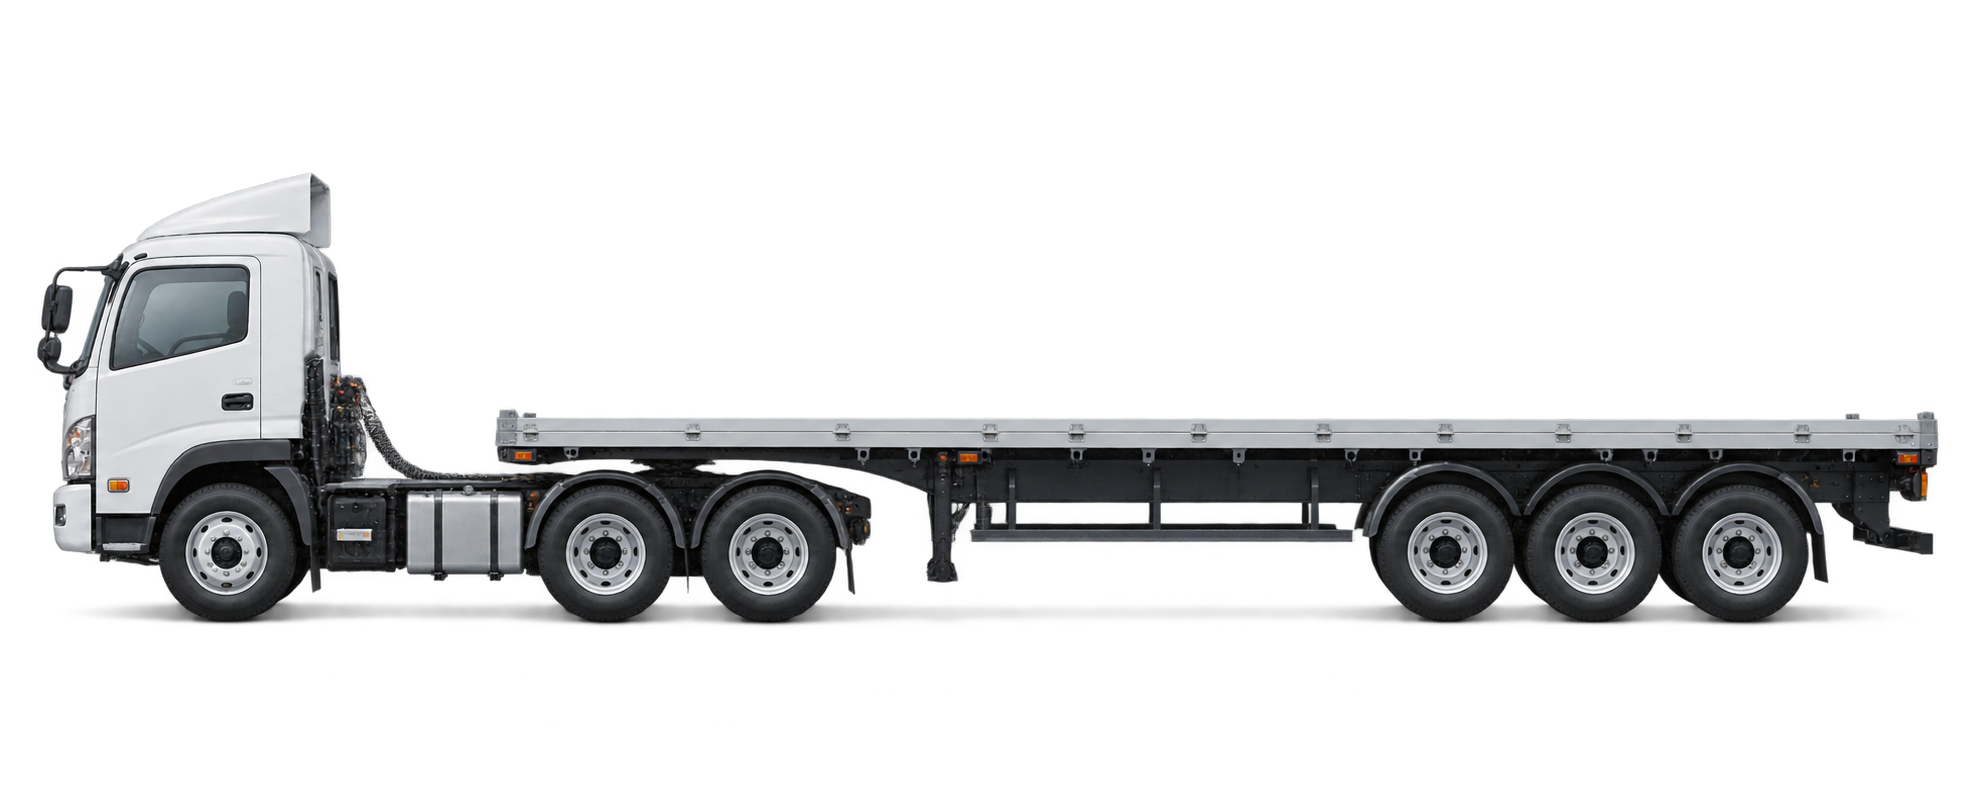
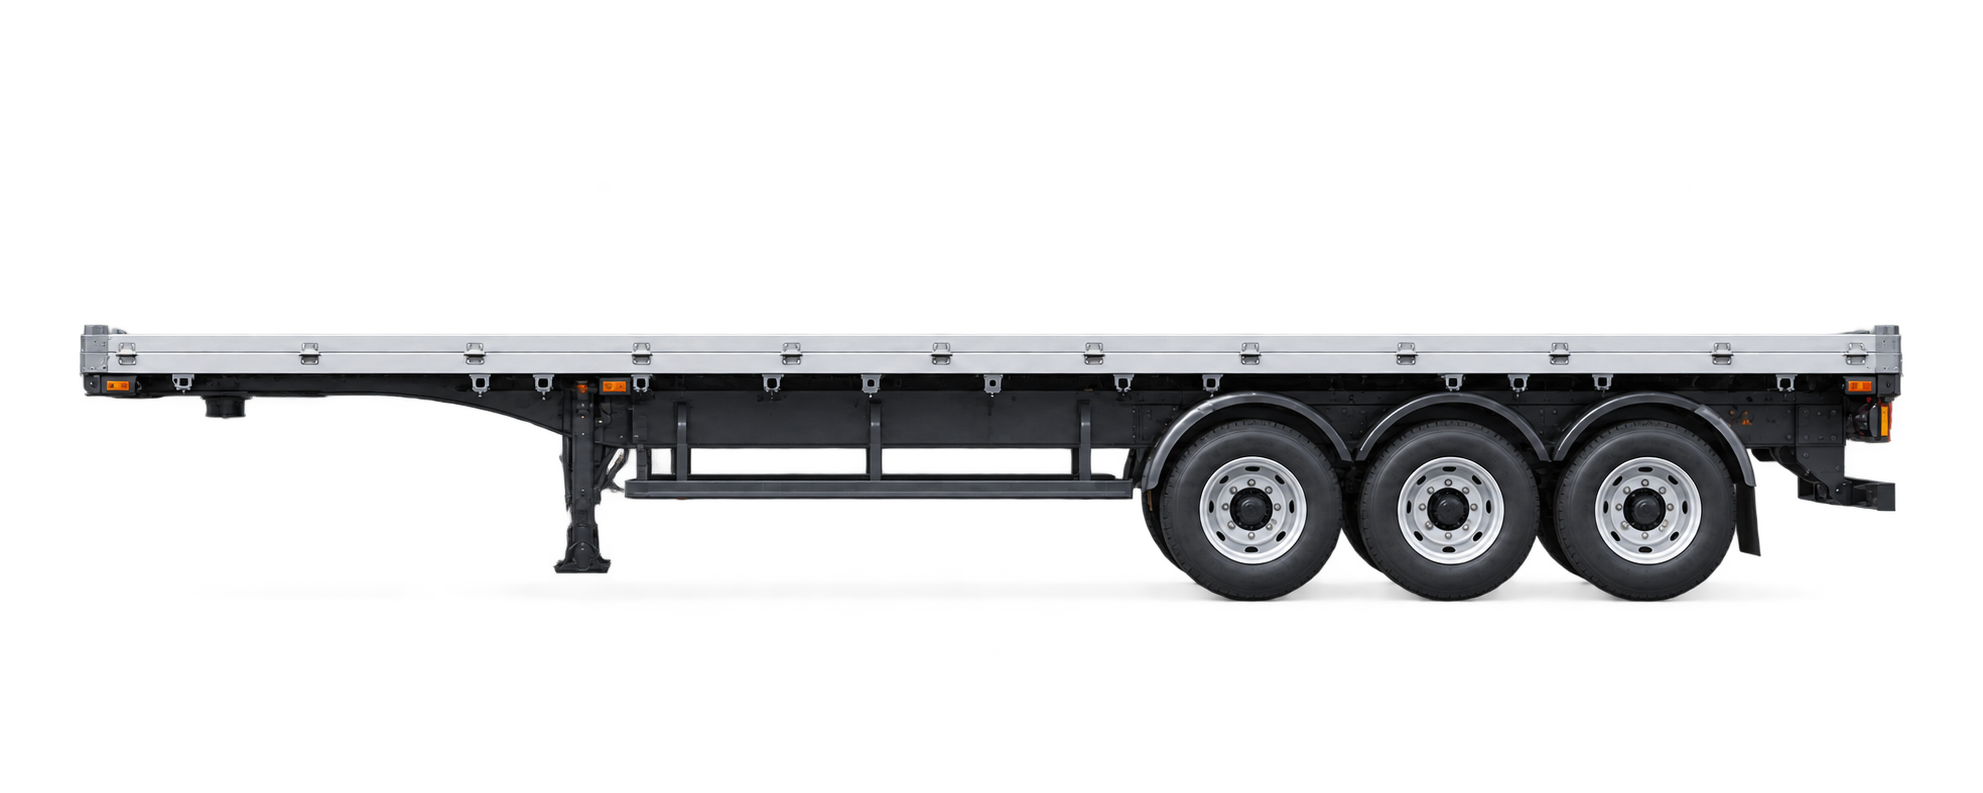
fix(qf): show trailer without tractor head

Changed region(s): [[0.0, 0.2119, 0.9844, 0.7869]]

diff --git a/docs/truck/truck_type_bike_style_qf122.md b/docs/truck/truck_type_bike_style_qf122.md
@@ -34,4 +34,7 @@
 윙바디는 근측 대형 윙을 지붕 힌지에서 약 55~60도로 열고, 전장 화물실과
 2개의 지지 스트럿을 노출해 64×40 축소 상태에서도 탑차·카고와 구별되게 한다.
 
+트레일러는 트랙터 헤드를 함께 표시하지 않는다. 지지 다리와 후방 3축이 보이는
+단독 평판 세미트레일러로 표시해 바로 앞의 `트랙터 헤드`와 역할을 분리한다.
+
 세부 형식은 이미지 반복을 줄이기 위해 기존 텍스트 칩 레일을 유지한다.

diff --git a/reports/codex-truck-category-images-bike-style.md b/reports/codex-truck-category-images-bike-style.md
@@ -40,3 +40,5 @@
   둘째 줄에 떨어지는 문제를 제거했다.
 - 윙바디는 근측 윙을 55~60도로 열고 전장 화물실·스트럿이 드러나는
   좌향 정측면 이미지로 다시 제작했다.
+- 트레일러는 트랙터 헤드를 제거하고 지지 다리와 3축을 갖춘 단독 평판
+  세미트레일러 이미지로 다시 제작했다.
